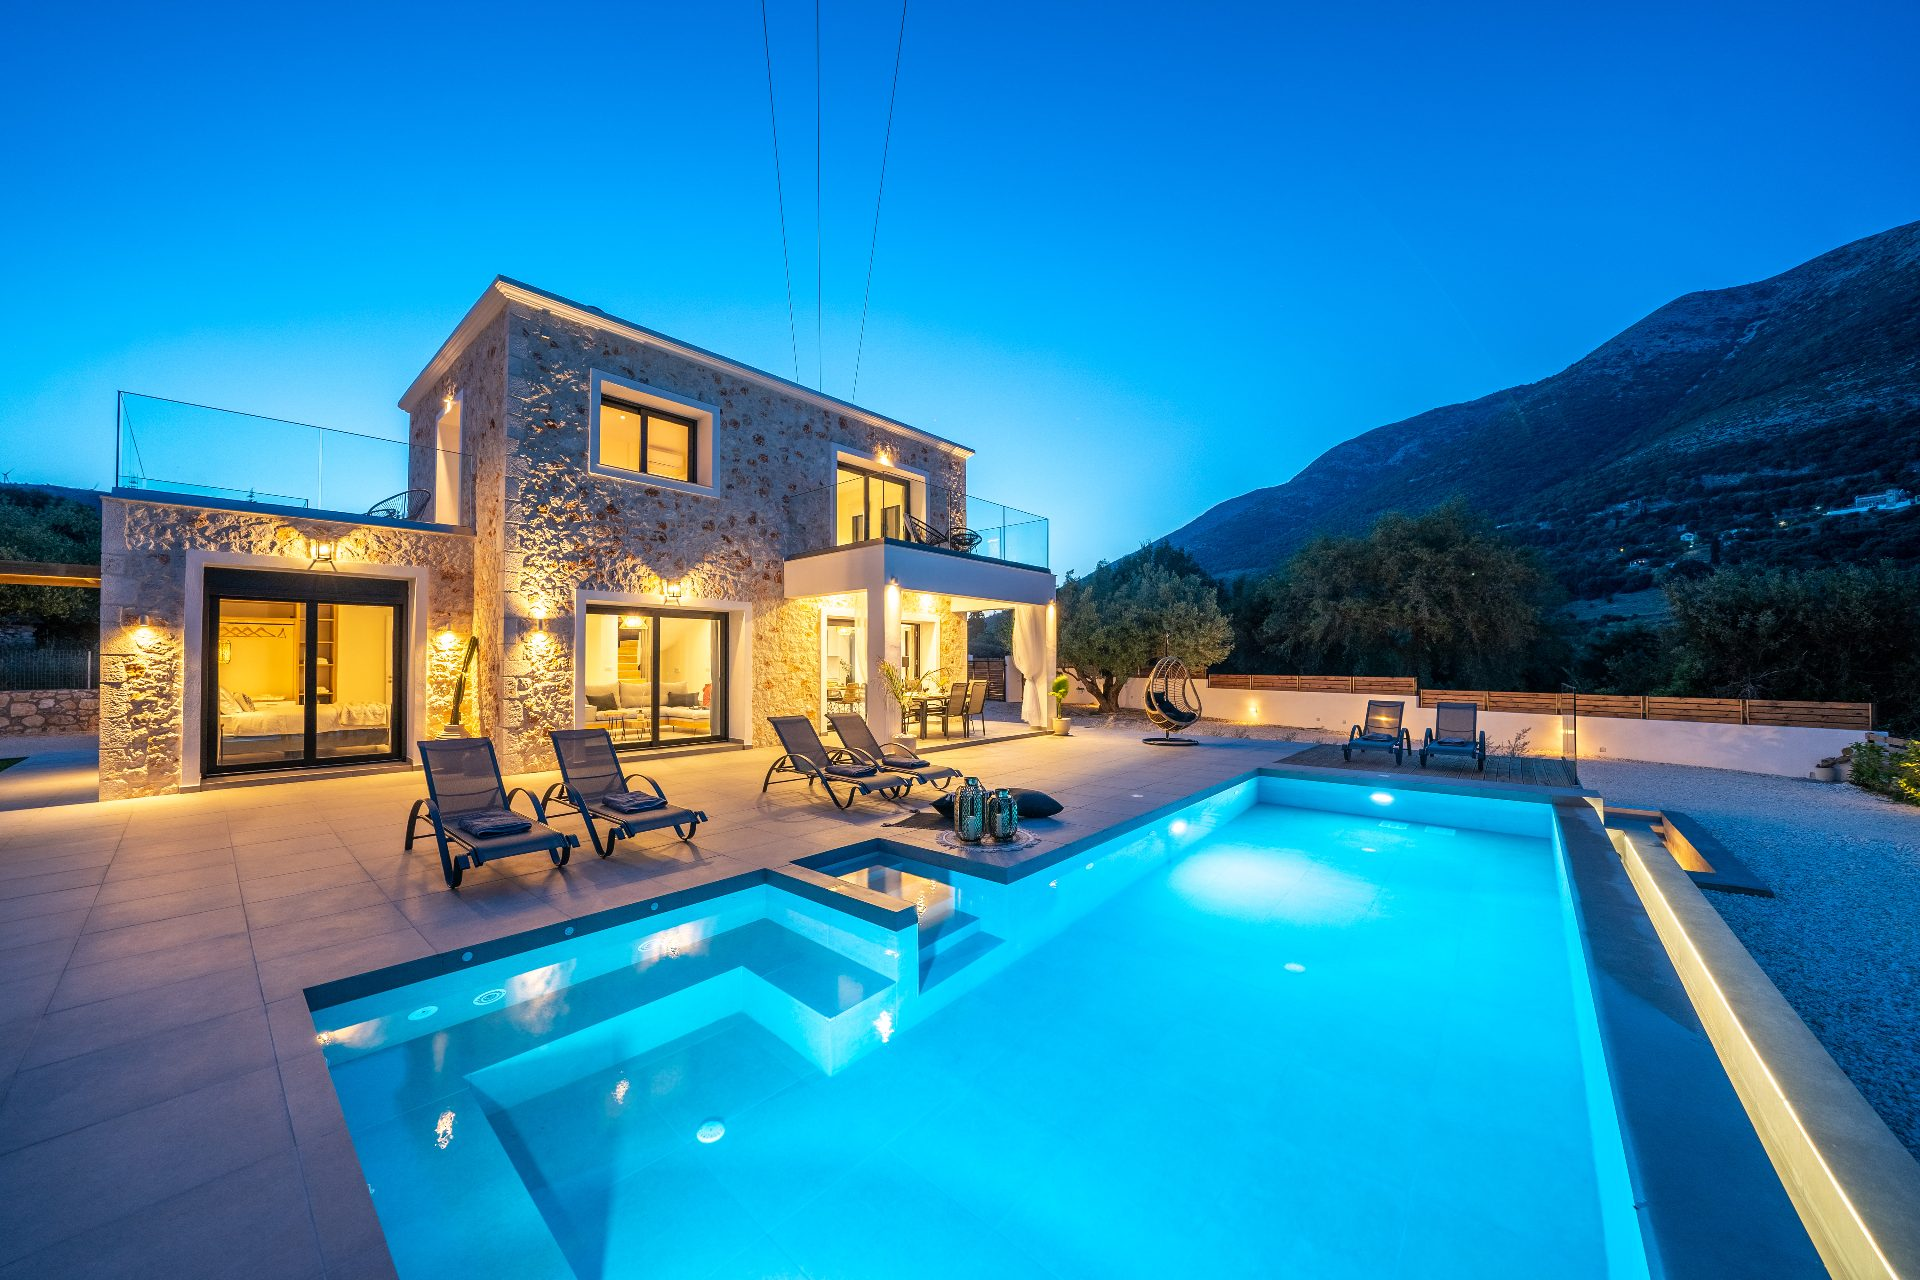
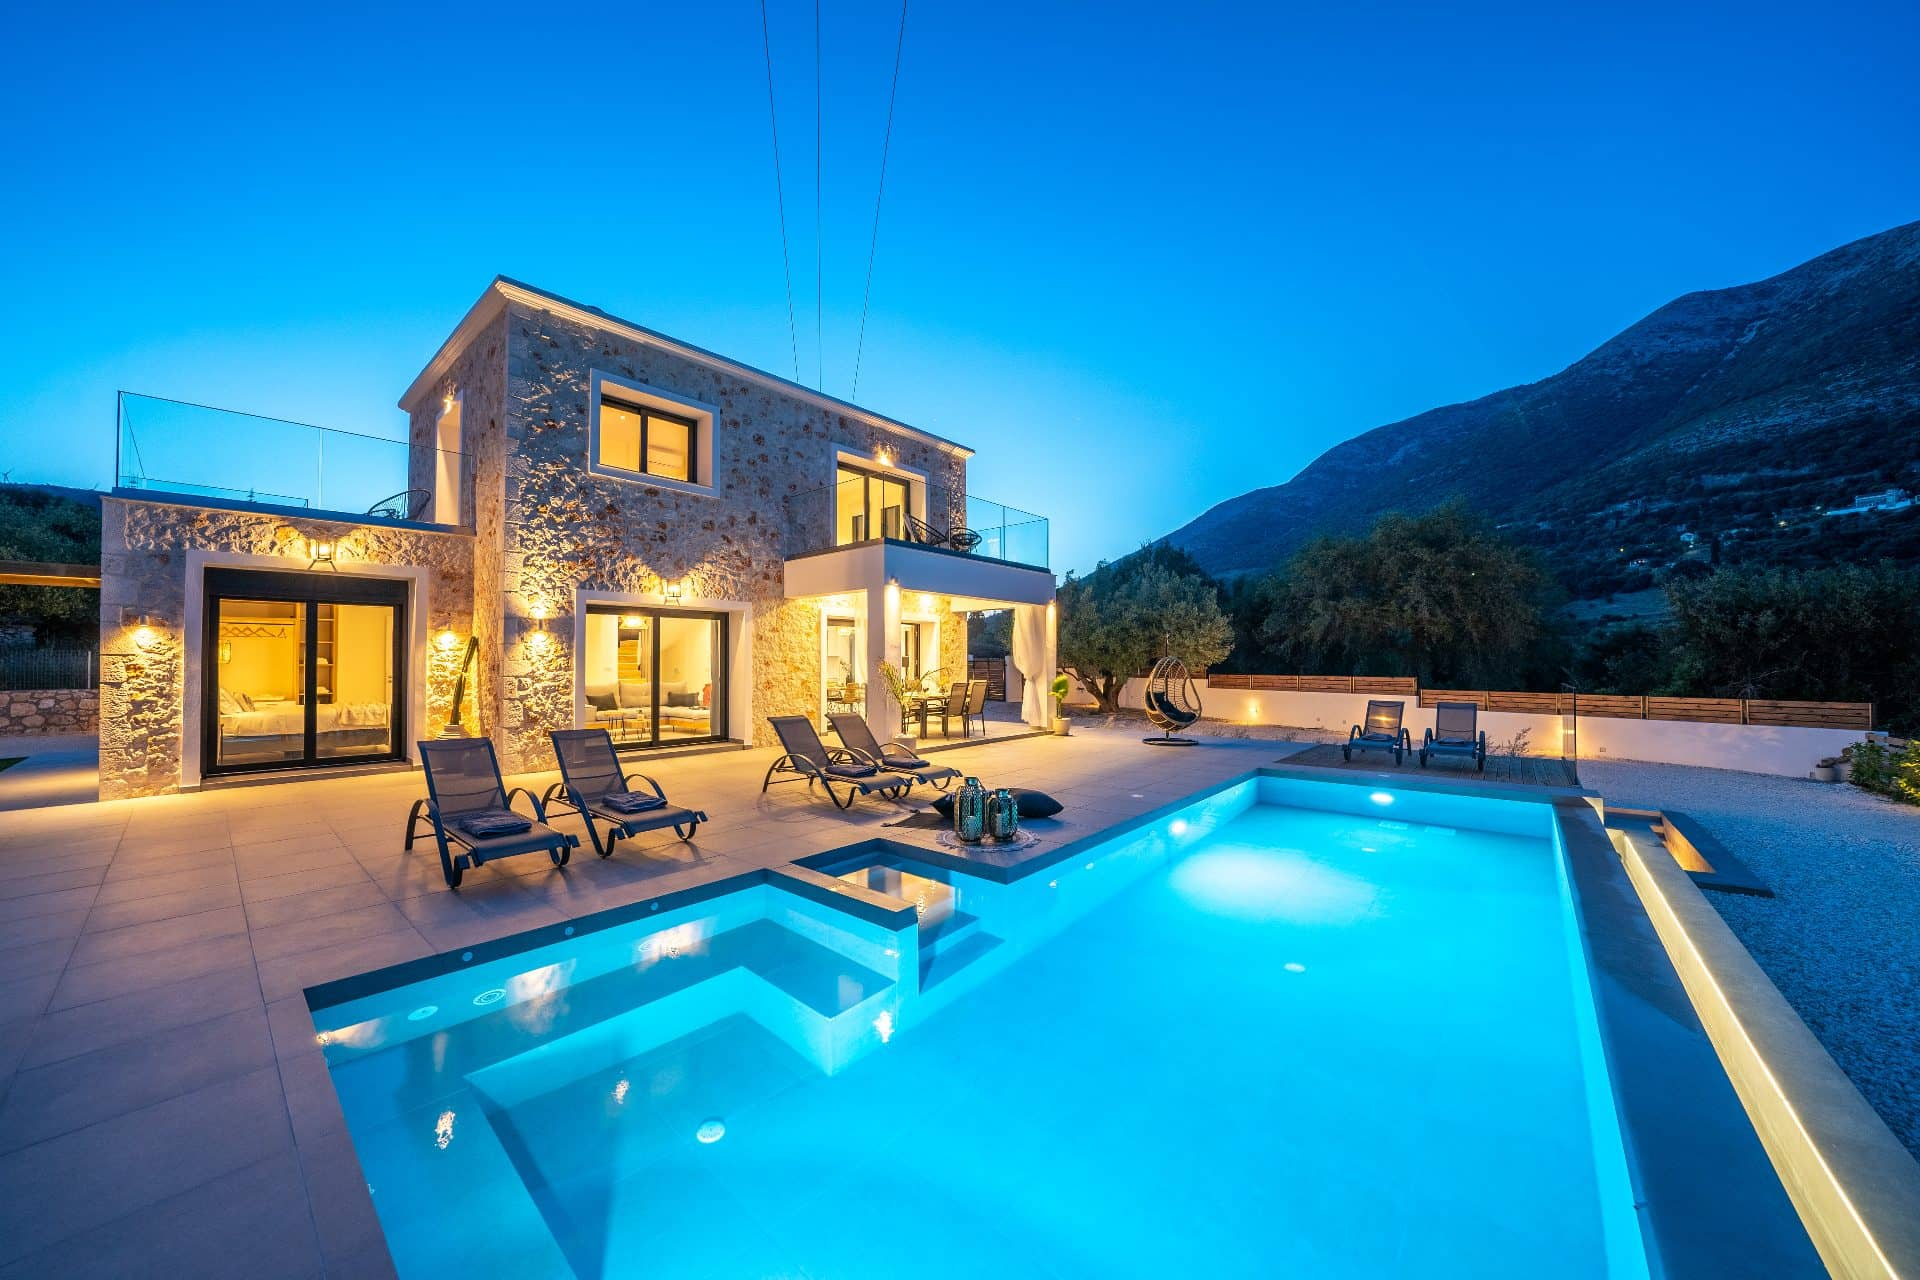
optimize images

diff --git a/src/components/testimonials/Testimonials.js b/src/components/testimonials/Testimonials.js
@@ -1,6 +1,6 @@
 import style from './Testimonials.module.scss';
 import jason from '../../assets/testimonial-1.jpg';
-import jelanie from '../../assets/testimonial-2.jpg';
+import irene from '../../assets/testimonial-2.jpg';
 import LinkButton from '../UI/LinkButton';
 import videoBg from '../../assets/video.mp4';
 
@@ -15,7 +15,7 @@ const Testimonials = () => {
     },
     {
       title: 'Kinda happy happy nemern',
-      img: jelanie,
+      img: irene,
       comment:
         'Lorem ipsum dolor sit amet consectetur adipisicing elit. Ipsa officiis rerum corporis distinctio laudantium obcaecati eveniet maiores ut qui dolore quis voluptatum, saepe necessitatibus maxime adipisci labore corrupti exercitationem fugit. orporis distinctio laudantium obcaecati eveniet maiores ut qui dolore quis voluptatum, saepe necessitatibus maxime adipisci labore corrupti exercitationem fugit.',
       name: 'Wim Kexler',

diff --git a/src/scss/abstracts/_mixins.scss b/src/scss/abstracts/_mixins.scss
@@ -1,25 +1,25 @@
 @mixin query($breakpoint) {
   @if $breakpoint == phone {
     //600px
-    @media (max-width: 37.5em) {
+    @media only screen and (max-width: 37.5em) {
       @content;
     }
   }
   @if $breakpoint == tabPort {
     //900px
-    @media (max-width: 56.25em) {
+    @media only screen and (max-width: 56.25em) {
       @content;
     }
   }
   @if $breakpoint == tabLand {
     //1200px
-    @media (max-width: 75em) {
+    @media only screen and (max-width: 75em) {
       @content;
     }
   }
   @if $breakpoint == desktopSmall {
     //1500px
-    @media (max-width: 93.75em) {
+    @media only screen and (max-width: 93.75em) {
       @content;
     }
   }

diff --git a/src/components/about/About.module.scss b/src/components/about/About.module.scss
@@ -6,7 +6,7 @@
   background-color: $color-light;
   padding: 25rem 10rem;
   @include query(tabPort) {
-    padding: 20rem 5rem;
+    padding: 20rem 10rem;
   }
 }
 
@@ -59,8 +59,6 @@
   &--pool {
     left: 7rem;
     top: -2rem;
-    @include query(tabPort) {
-    }
   }
   &--spa {
     right: 0;
@@ -79,6 +77,6 @@
     }
   }
   @include query(tabLand) {
-    transform: translateY(6rem);
+    transform: translateY(4rem);
   }
 }

diff --git a/src/components/about/About.js b/src/components/about/About.js
@@ -7,7 +7,7 @@ import LinkButton from '../UI/LinkButton';
 const About = () => {
   return (
     <section id='about' className={style.section}>
-      <h2>LOREM IPSUM DOLOR sit</h2>
+      <h2>About Relux</h2>
       <div className={style.container}>
         <div className={style.text}>
           <h3>Lorem ipsum dolor sit amet</h3>

diff --git a/src/scss/base/_base.scss b/src/scss/base/_base.scss
@@ -41,3 +41,8 @@ body {
   outline: none;
   box-shadow: 0 0 0 0.4rem $color-primary;
 }
+
+::selection {
+  background-color: $color-primary-dark;
+  color: white;
+}
